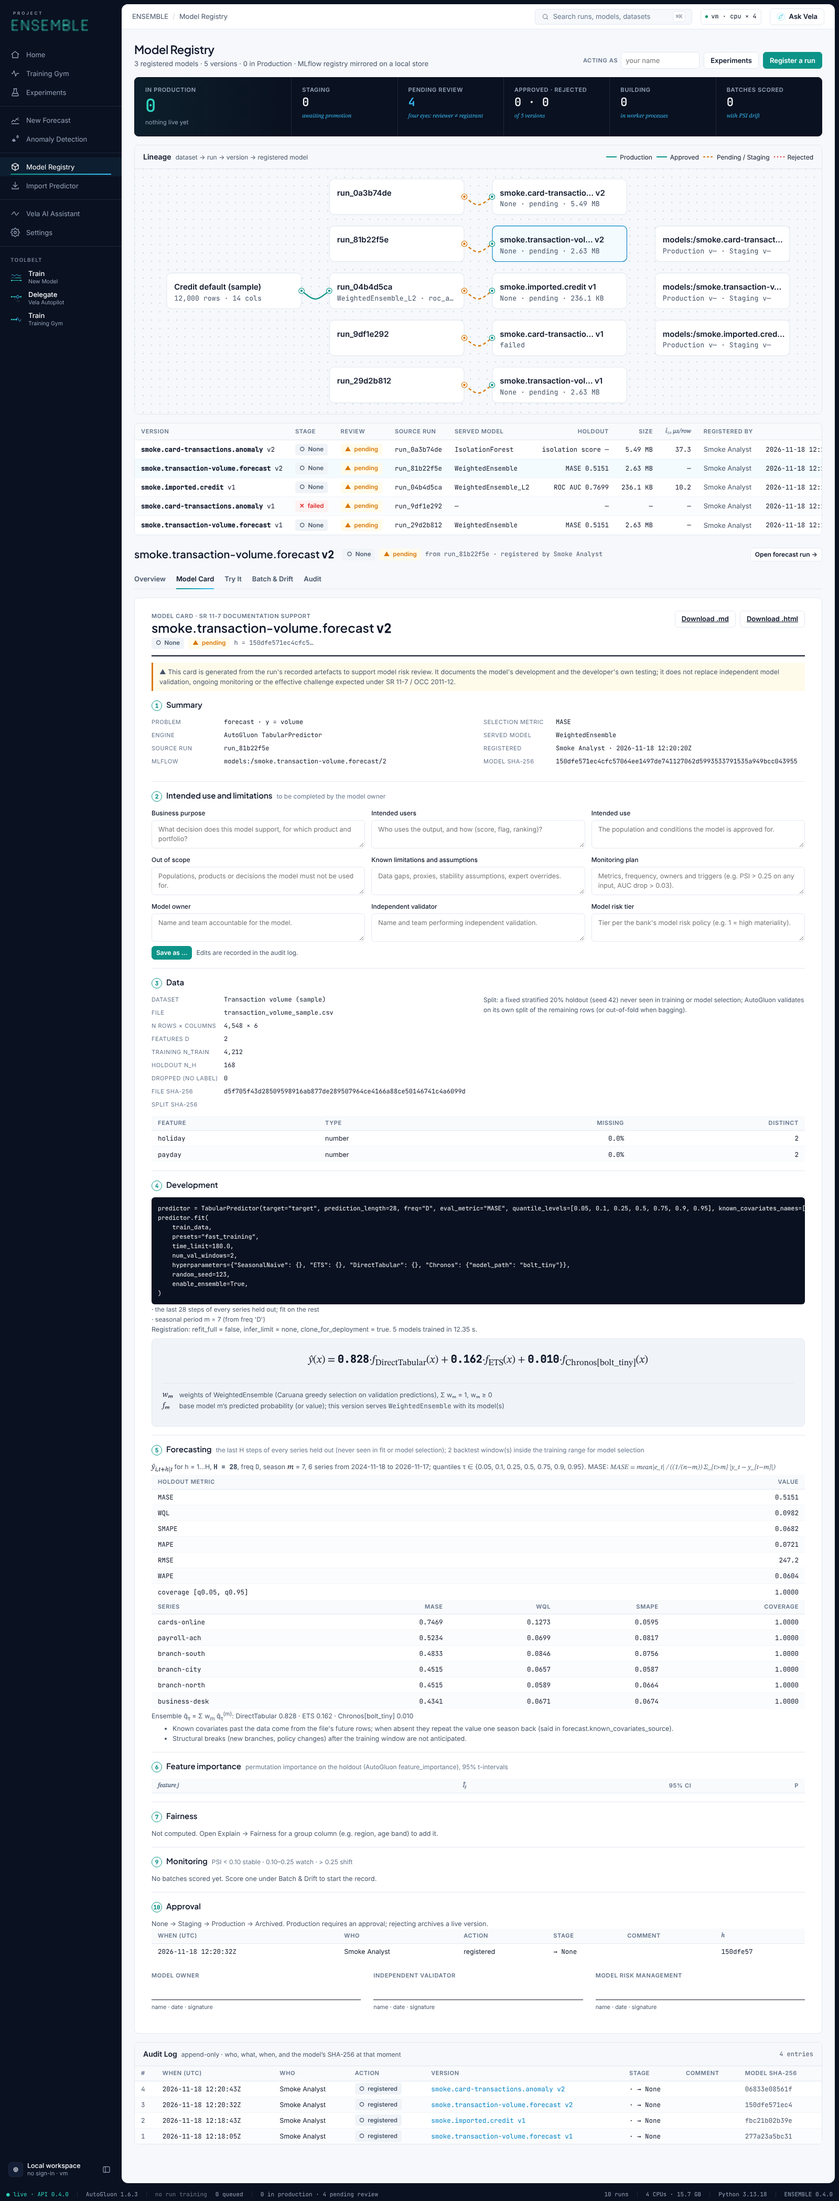
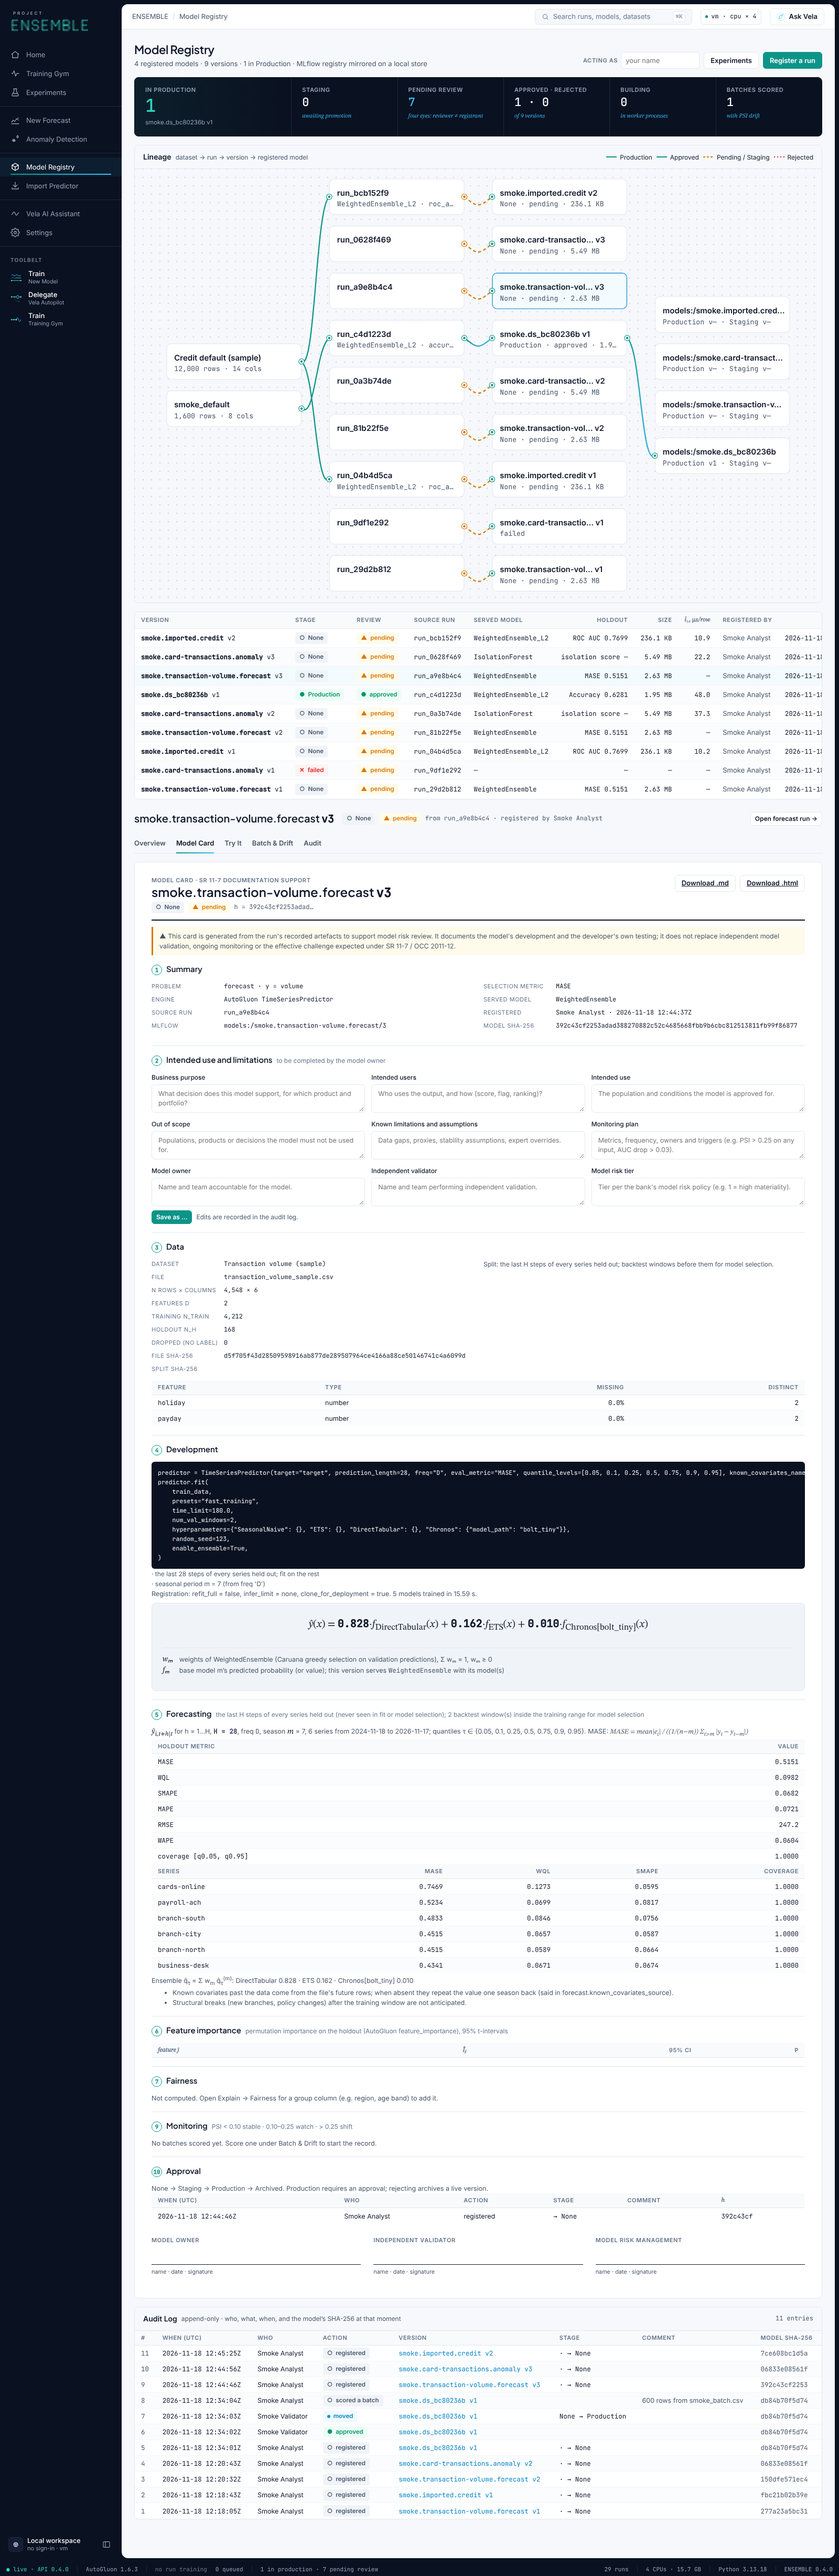
S8 docs: progress note with the smoke output (50/50) and screenshots; build plan S8 ✓

diff --git a/docs/progress/S8.md b/docs/progress/S8.md
@@ -1,0 +1,145 @@
+# S8 · Forecasting, anomalies, import, reset
+
+Status: **done. `make smoke` is green: 50/50 steps in 742 s. `npm run build` passes.** No new pytest or Playwright,
+as the build plan says; the existing suites are untouched.
+
+Screenshots in [`S8/`](S8/), live API, 1600 px wide, Vela closed:
+
+- `01-forecast-setup`: the mapping (item id, timestamp, target, known covariates, static, past), the preview of every
+  series, the TimeSeriesPredictor config with the metric's formula and where-list, and the resolved call.
+- `02-forecast-run`: holdout MASE 0.515 vs SeasonalNaive 1.147, WQL, sMAPE, coverage; the fan chart (history, holdout
+  actuals with the backtest median and bands, the future median with nested [q₀.₀₅, q₀.₉₅] ⊃ [q₀.₁, q₀.₉] ⊃ [q₀.₂₅, q₀.₇₅]);
+  the leaderboard; the ensemble q̂ = Σ wₘ q̂⁽ᵐ⁾ with weights; backtest windows; per-series errors.
+- `03-anomaly-run`: s(x, ψ) = 2^(−E[h(x)]/c(ψ)) with c(256) = 10.245; the score histogram with s*; the contamination
+  slider; precision@k against the planted truth (sample only) with recall per anomaly kind; the top rows; TreeSHAP
+  reasons E[h(x)] = φ₀ + Σφⱼ for the selected row; IF vs LOF.
+- `04-import`: an imported predictor scored on credit-default's holdout, with links to Explain, Results and Register.
+- `05-registry-forecast-card`: a forecasting version's model card (engine TimeSeriesPredictor, the fit call, §5
+  Forecasting with holdout metrics, per-series errors and the ensemble).
+- `06-anomaly-setup`.
+
+## What was built
+
+**Backend.** Forecast and anomaly runs are rows in the same `runs` table and go through the same `JobRunner` (one
+process per fit, cancel, restart recovery) and the same events and SSE: `engine/worker.py` dispatches on
+`config.kind`. `GET /api/runs` lists tabular runs and imports by default, so older pages never see the new kinds;
+`?kind=forecast|anomaly|all` lists them.
+
+- `app/forecast/core.py`, `api.py`: long-format reader (rows past each series' last target are the horizon's known
+  covariates), freq inference, the last H steps held out, `TimeSeriesPredictor(...).fit(train, **fit_kwargs)` with
+  every argument passed through. TimeSeriesPredictor has no callbacks, so a log handler turns its trainer's lines into
+  `model_started` / `model_finished` (validation score, fit time) / `ensemble` events. Results: the leaderboard on the
+  full data (val + holdout), the greedy ensemble's weights, `backtest_predictions` / `backtest_targets` scored per
+  window and model, the holdout forecast with per-series MASE, WQL, sMAPE, bias and interval coverage, and the future
+  forecast (`forecast.csv`, `chart.json`). Forecast from new history with the saved predictor. Column mapping
+  suggestions from the sample's spec or from names and types.
+- `app/anomaly/core.py`, `api.py`: ColumnTransformer (median impute + missing flags, one-hot top 20) → IsolationForest,
+  optional LOF (novelty, robust-scaled). s, E[h], c(ψ), threshold at the (1 − c) quantile, histogram, TreeSHAP on the
+  forest summed back from one-hot columns, robust z / category share, precision@k, ROC AUC, AP and recall per kind
+  against `anomaly_truth.json` (stored in the run config for the worker, stripped from every API response). Batch
+  scoring with percentile and reasons; one-row scoring. Saved as `model/model.joblib`.
+- `app/engine/importer.py`: `POST /api/runs/import` (zip upload with safe extraction, or server path), validated in a
+  worker (loads, label and features in the dataset), then the normal tabular worker path minus the fit: leaderboard,
+  holdout metrics, threshold record, importance, MLflow. Explain, Results, registry, card, Try It and batches work.
+- Registry: `build_other` copies the model folder, measures forecast/scoring latency, hashes, registers in MLflow
+  (engine tag `autogluon.timeseries` / `scikit-learn`). Try It on an anomaly version scores the row; batches for the
+  new kinds point to their own pages. Model card: engine, call and split per kind, and §11 Forecasting / Anomaly
+  detection / Imported predictor (JSON, Markdown, HTML).
+- Samples: `transaction-volume` (6 series × 730 days + 28 future rows; trend, weekly and yearly seasonality, December
+  peak, holidays and paydays as known covariates, segment static) and `card-transactions` (6,000 rows, 90 planted
+  anomalies of five kinds). Dataset `kind` gains `timeseries` / `transactions`, plus `flows`.
+- `make reset`: `POST /api/admin/reset` (`{"confirm": "reset"}`, refused while a run is active) or `python -m
+  app.reset` offline. Deletes runs, events, registry, batches, autopilots, MLflow and uploads; regenerates the samples.
+
+**UI.** Sidebar: New Forecast, Anomaly Detection (new group), Import Predictor (under the registry). New Model's
+problem-type step links to all three. Shared: `useRunEvents` (SSE → live model rows), `FlowParts` (live rows, the
+register strip). The registry's version view handles forecast/anomaly versions (measured card instead of the tabular
+trade-off, links to the flow page instead of tabular Try It / Batch).
+
+**Fixes on the way:** dataset kinds in the response schema (the new samples made `GET /api/datasets` 500); a crash in
+`HeavyPool.shutdown` when the executor had no processes; the model card view on versions without dependencies.
+
+## Smoke output
+
+```
+ENSEMBLE smoke against http://127.0.0.1:8000
+
+── core
+✓ health                             AutoGluon 1.6.3 · 8 datasets · 10 runs  (0.0 s)
+✓ upload generated CSV               ds_bc80236b · 1600 rows × 8 cols  (0.1 s)
+✓ profile                            task binary · imbalance ratio 2.09 · customer_id typed id (dropped)  (0.0 s)
+✓ start run + follow SSE             run_c4d1223d · 4 model_finished events · SSE → run_succeeded  (20.0 s)
+✓ leaderboard + results              4 models · best WeightedEnsemble_L2 · holdout accuracy 0.7188  (0.0 s)
+✓ explain                            Σ confusion = 320 holdout rows · ROC AUC 0.7028  (0.1 s)
+✓ threshold analysis                 201 thresholds · argmax F1 t* = 0.290 (F1 0.5515)  (0.0 s)
+✓ calibrate threshold                calibrate_decision_threshold(f1) → t = 0.311  (0.6 s)
+✓ SHAP one row                       row 0 · f(x) = 0.3067 = φ₀ 0.3227 + Σφᵢ -0.0160  (1.0 s)
+✓ fairness by segment                3 groups · demographic parity Δ 0.324  (0.1 s)
+✓ custom ensemble                    WeightedEnsemble_L2_Custom1 · Σw = 1 · LinearModel 0.786, RandomForest 0.214  (3.1 s)
+✓ register                           mv_3039c7f7 · smoke.ds_bc80236b v1 · ready  (16.1 s)
+✓ approve + promote                  four-eyes approve → Production  (1.3 s)
+✓ Try It predict                     prediction no · p(yes) 0.307 vs t 0.311 · 34 ms  (0.3 s)
+✓ batch score                        batch_20ae5700 · 600 rows scored + downloaded  (1.0 s)
+✓ drift (PSI)                        max PSI 0.748 · utilisation PSI 0.748  (0.0 s)
+✓ Gym schema + validate + start      11 families · 56 fit keys · validate ok, typo refused · run_612e988f trained  (6.1 s)
+✓ Vela findings → patch → retrain    1 findings · patch drift → run_4a0c01ed · Δaccuracy -0.0281  (16.3 s)
+✓ compare (lineage)                  parent run_c4d1223d ← child run_4a0c01ed · same holdout (320 rows)  (0.0 s)
+✓ Vela question box                  answered by computed in 16.4 s · 147 chars  (16.6 s)
+✓ export.py → run in subprocess      exported script reproduced the leaderboard · leaderboard check: 4 models, max |Δ score| = 0  (14.8 s)
+── samples
+✓ regression sample: train + predict run_cdab8e03 · holdout root_mean_squared_error -6453.3 · predict → 32,480  (6.3 s)
+✓ text sample: train + predict       run_1de6c74c · WeightedEnsemble_L2 · holdout accuracy 0.9130 · 'billed twice' → Billing  (19.4 s)
+── autopilot
+✓ autopilot: start → baseline → inbox ap_8a900949 · baseline run_4e322d52 macro-F1 0.9020  (64.2 s)
+✓ autopilot: inbox                   693 items · {'label': 331, 'duplicate': 303, 'outlier': 59}  (0.0 s)
+✓ autopilot: inbox recall (label_noise.json) recall of planted flips 252/300 = 84.0% in the top 331 · precision 76.1%  (0.0 s)
+✓ autopilot: bulk answer + resume    bulk-accepted 693 (≥ 0.5 confidence) · resumed  (0.0 s)
+✓ autopilot: retrain → finish        7 steps · macro-F1 0.9222 → 0.9262 (Δ +0.0039) · 1 dataset version(s)  (84.2 s)
+✓ autopilot: requirements check      MET · f1_macro 0.9262 >= 0.92 ✓ · p95_latency_ms 21.19 <= 50.0 ✓ · decided by ['layer-2']  (0.0 s)
+✓ autopilot: Vela question box       answered by claude-cli · The facts don't isolate the inbox's effect on the score. They show that after the inbox an…  (7.0 s)
+✓ autopilot: layer 1 only (no LLM), auto ap_888a0804 · no LLM · auto-accepted c ≥ 0.9 · 6 runs · NOT MET · Δf1_macro +0.0051  (354.9 s)
+── forecast
+✓ forecast: mapping + preview        6 series × 730 days · freq D · m = 7 · 168 future rows (known covariates)  (0.1 s)
+✓ forecast: run + SSE                run_a9e8b4c4 · 5 started / 5 finished · ensemble event · SSE → run_succeeded  (24.0 s)
+✓ forecast: leaderboard + weights    best WeightedEnsemble holdout MASE 0.515 (SeasonalNaive 1.147) · w = DirectTabular 0.83, ETS 0.16, Chronos[bolt_tiny] 0.01 · 2 backtest windows  (0.0 s)
+✓ forecast: per-item errors          MASE 0.515 · WQL 0.0982 · coverage of [q0.05, q0.95] 100.0% · worst item cards-online MASE 0.747  (0.0 s)
+✓ forecast: fan chart data           6 items · history 120 + holdout 28 + future 28 · q0.05 ≤ q0.5 ≤ q0.95 everywhere · 2026-11-18 → 2026-12-15  (0.0 s)
+✓ forecast: download CSV             forecast.csv · 168 rows × 10 cols (mean + 7 quantiles)  (0.0 s)
+✓ forecast: CSV upload + mapping + run ds_837f43fd mapped branch/date/txns + known ['is_holiday'] + static ['segment'] · run_d4ca0631 WQL 0.0753 · future covariates: one season back (m = 7)  (12.2 s)
+✓ forecast: forecast from new history history to 2026-10-31 → 168 rows forecast by WeightedEnsemble in 5.97 s · covariates from one season back (m = 7)  (6.2 s)
+✓ forecast: register + model card    mv_32e8dac0 · smoke.transaction-volume.forecast v3 · card §11 Forecasting · forecast all items 870 ms  (10.1 s)
+── anomaly
+✓ anomaly: run + SSE                 run_0628f469 · ψ = 256 · c(ψ) = 10.245 · 300 trees · s* = 0.5645 · 90 flagged · LOF ρ = 0.49 · 2 models  (6.1 s)
+✓ anomaly: top anomalies + reasons   c = 0.02 → s* = 0.5542, 120 flagged · #1 row 3772 s = 0.656: foreign = 1 (z = +5.0 vs median 0); distance_from_home_km = 1,471 (z = +259.9 vs median 6.  (0.0 s)
+✓ anomaly: precision@k (hidden truth) IF P@10 1.00 · P@50 0.80 · P@90 0.49 · AUC 0.947 · LOF P@90 0.70 (sample only)  (0.0 s)
+✓ anomaly: score a new batch         ab_5684e400 · 500 rows · 5 flagged at s* · 5 injected rows ($25k at 03:00) at percentiles 0.954, 0.992, 0.968, 0.983, 0.980 · downloaded  (1.4 s)
+✓ anomaly: register + Try It         mv_3efbb8d1 · v3 ready · card §11 · Try It: s = 0.642 (pct 1.000) flagged — amount_usd = 9,000 (z = +209.8 vs median 60.38); distance_fr  (3.1 s)
+── import
+✓ import: fit + zip + import         tiny predictor fit here (WeightedEnsemble_L2) · zipped · run_bcb152f9 · 3 models · holdout ROC AUC 0.7699  (12.0 s)
+✓ import: explain + predict          explain ✓ · importance top credit_score · predict 3 rows → ['No', 'No', 'No']  (0.2 s)
+✓ import: register + Try It          mv_583bbb23 ready · card engine 'AutoGluon TabularPredictor (imported)' · Try It No p(Yes) 0.061  (15.6 s)
+✓ import: server path + validation   run_b88de509 from a server path · 3 models · wrong dataset refused: The predictor predicts 'defaulted', which is not a column of Loan amou  (7.8 s)
+── reset
+✓ reset: POST /api/admin/reset       throwaway API · before: 1 run(s), 7 datasets → reset (deleted 1 run, 7 dataset rows) → 0 runs, 6 samples regenerated  (9.7 s)
+
+50/50 steps passed in 742 s
+```
+
+## Open
+
+- Interval coverage on the sample is wide: [q₀.₀₅, q₀.₉₅] covers 100% of holdout actuals against 90% nominal (smoke
+  config with few models). Shown honestly on the page.
+- IsolationForest finds 0/18 "amount spike" anomalies: they are large only relative to the card's own 90-day average,
+  which the model sees as two separate columns. The page says so; an amount ÷ avg feature is the fix (not added, so
+  the sample stays a fair check).
+- Forecast runs are not in Experiments or Home (they list tabular runs); a forecast comparison view is S9 material.
+- Batch scoring of forecast/anomaly versions lives on their run pages, not in the registry's Batch & Drift tab (no PSI
+  drift for them yet).
+- Presets `high_quality` / `best_quality` / `chronos2` download Chronos-2 / Toto weights from Hugging Face on first use
+  and are slow on 4 CPUs; the smoke uses a small zoo with Chronos-Bolt tiny.
+- `e2e/registry.live.spec.ts`'s stale Autopilot banner assertion (from S7) is still there.
+
+## Notes for S9
+
+- `make smoke` ≈ 12.5 min; `SMOKE_ONLY=forecast,anomaly,import,reset` ≈ 2 min.
+- Pages: `#/forecast?run=`, `#/anomaly?run=`, `#/import?run=`.

diff --git a/docs/build-sessions.md b/docs/build-sessions.md
@@ -39,7 +39,7 @@ Anyone at the bank brings a table (CSV upload or a sample), says what to predict
 | S5 ✓ | Registry + use | MLflow registry, register with `refit_full` / `infer_limit`, a generated model card, approve with an audit record, Try It with reasons, batch scoring of a CSV with download, PSI drift on a new batch. Home and status bar on real data. | Register → approve → Try It → batch score, in the browser and over HTTP. 98 pytest (fast) + 15 slow + 33 Playwright, green |
 | S6 ✓ | Training Gym + Vela | The Gym as the full AutoGluon config: presets, model families, per-family hyperparameters, bag folds, stack levels, HPO, pseudo-labelling, distillation, calibration, GPU, plus a raw kwargs editor. Export as Python. A Python client package for notebooks. Vela findings computed from the run, with patches that apply in the Gym. | Apply a patch, retrain, compare in Experiments. The exported script reproduces the run. 117 pytest (fast) + 16 slow + 35 Playwright, green |
 | S7 ✓ | Autopilot | Layer 1, a fixed strategy: baseline → cleanlab inbox (label issues, near-duplicates, outliers) → fixes → escalate preset and budget → stop on requirements. Layer 2: Claude through the CLI picks the next step and writes the findings. | Inbox recall of the planted errors (`label_noise.json`) above a floor; answering raises the score; it completes with no LLM. `make smoke` 31/31 green; inbox recall 252/300 = 84.0 % |
-| S8 | Forecasting, anomalies, import | New Forecast flow (`TimeSeriesPredictor`, a transaction-volume sample, quantile fan chart). Anomaly detection flow (IsolationForest, a score distribution, top anomalies with reasons). Import an existing AutoGluon predictor. `make reset`. | Forecast end to end; anomalies end to end; import end to end. |
+| S8 ✓ | Forecasting, anomalies, import | New Forecast flow (`TimeSeriesPredictor`, a transaction-volume sample, quantile fan chart). Anomaly detection flow (IsolationForest, a score distribution, top anomalies with reasons). Import an existing AutoGluon predictor. `make reset`. | Forecast end to end; anomalies end to end; import end to end. `make smoke` 50/50 green |
 | S9 | Visual + maths pass | Screenshot every page at 1366 and 1920 widths, then raise each to its best within the design system with dense, real notation. Fix layout, empty, loading and error states. | Screenshots with no console errors; the full suite green. |
 | S10 | Final end-to-end | Fresh CSVs the build never saw (generate them locally if offline). Run every flow through the browser and fix what breaks. Rewrite the README. Write the demo script. `docs/progress/S10-walkthrough.md` with screenshots. | The full suite green three times from a clean clone. |
 
